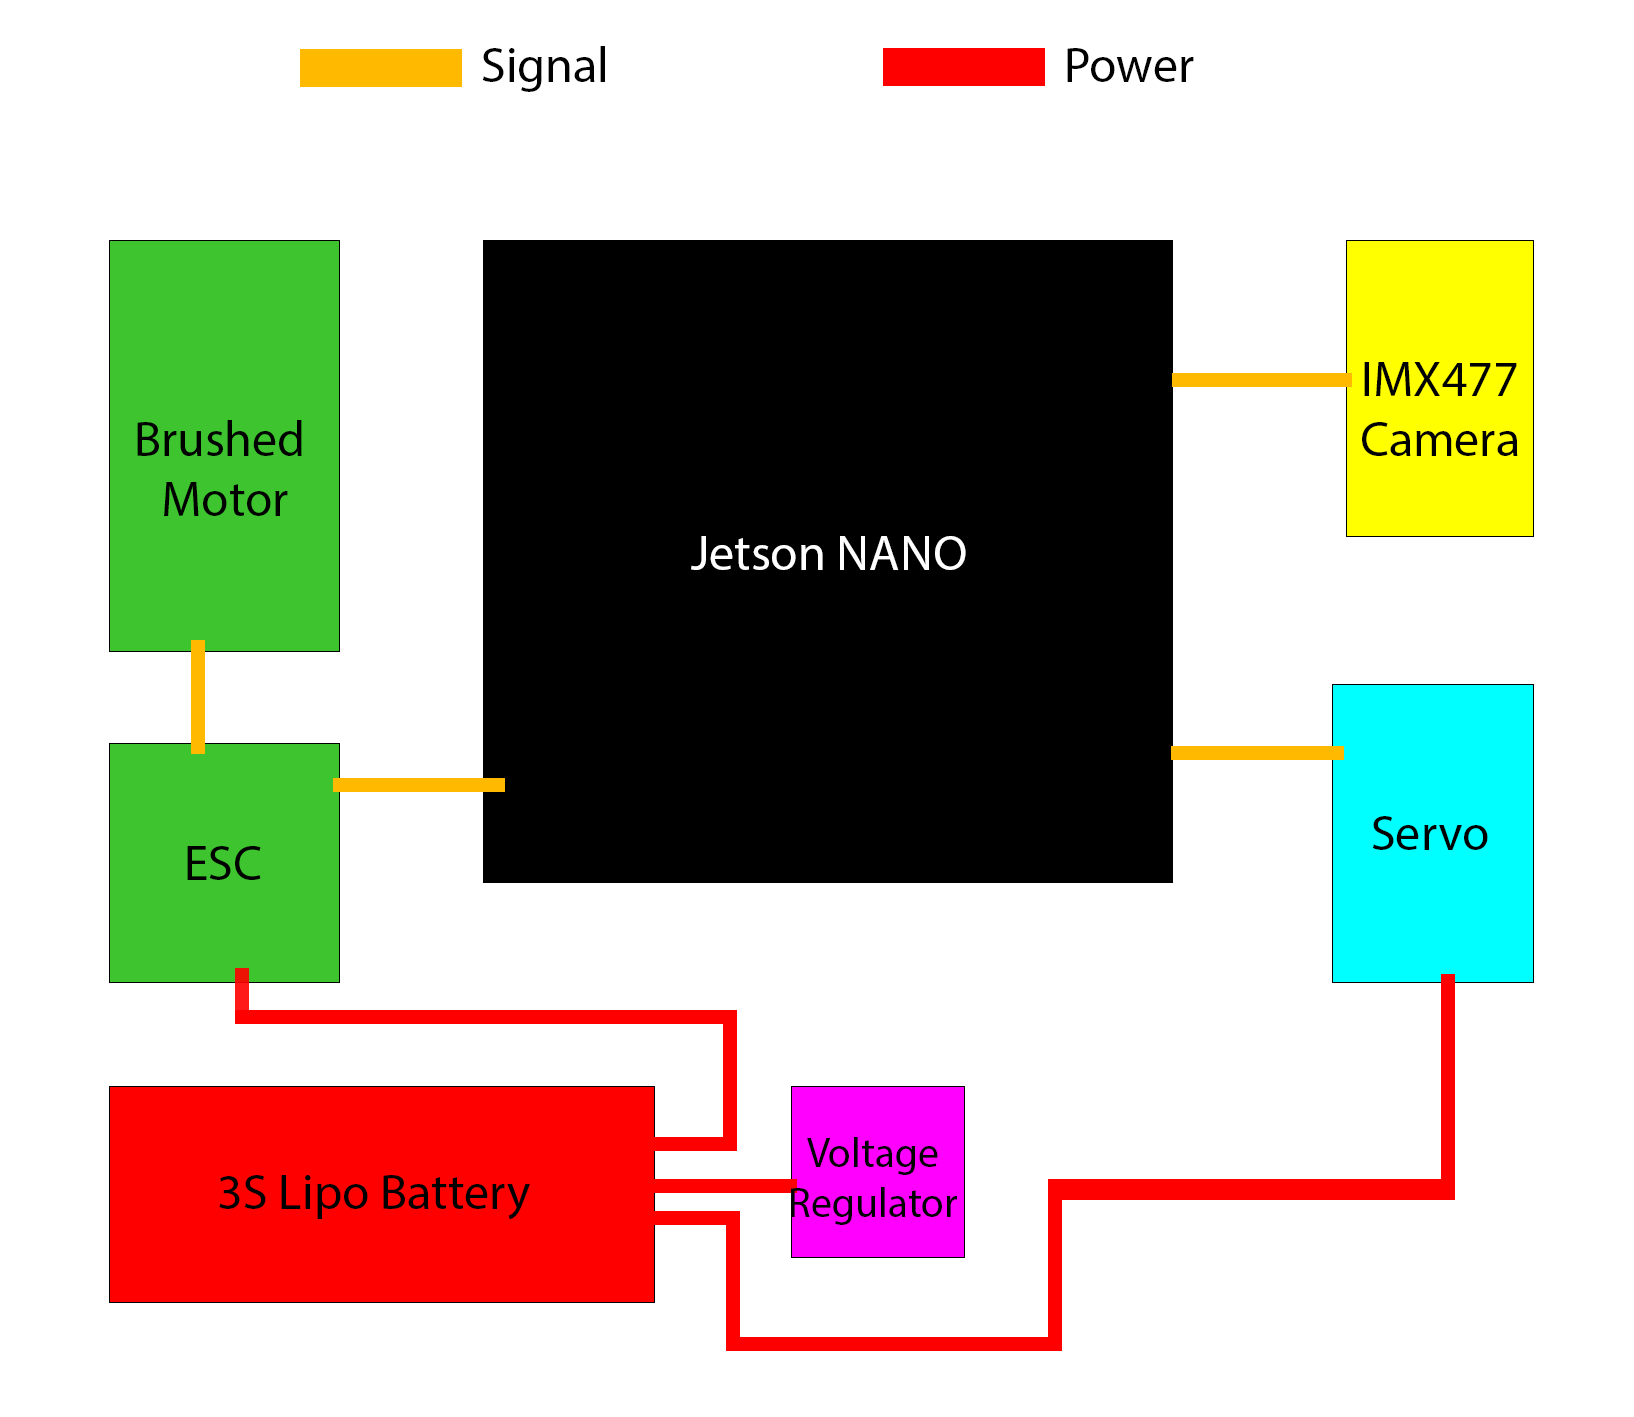
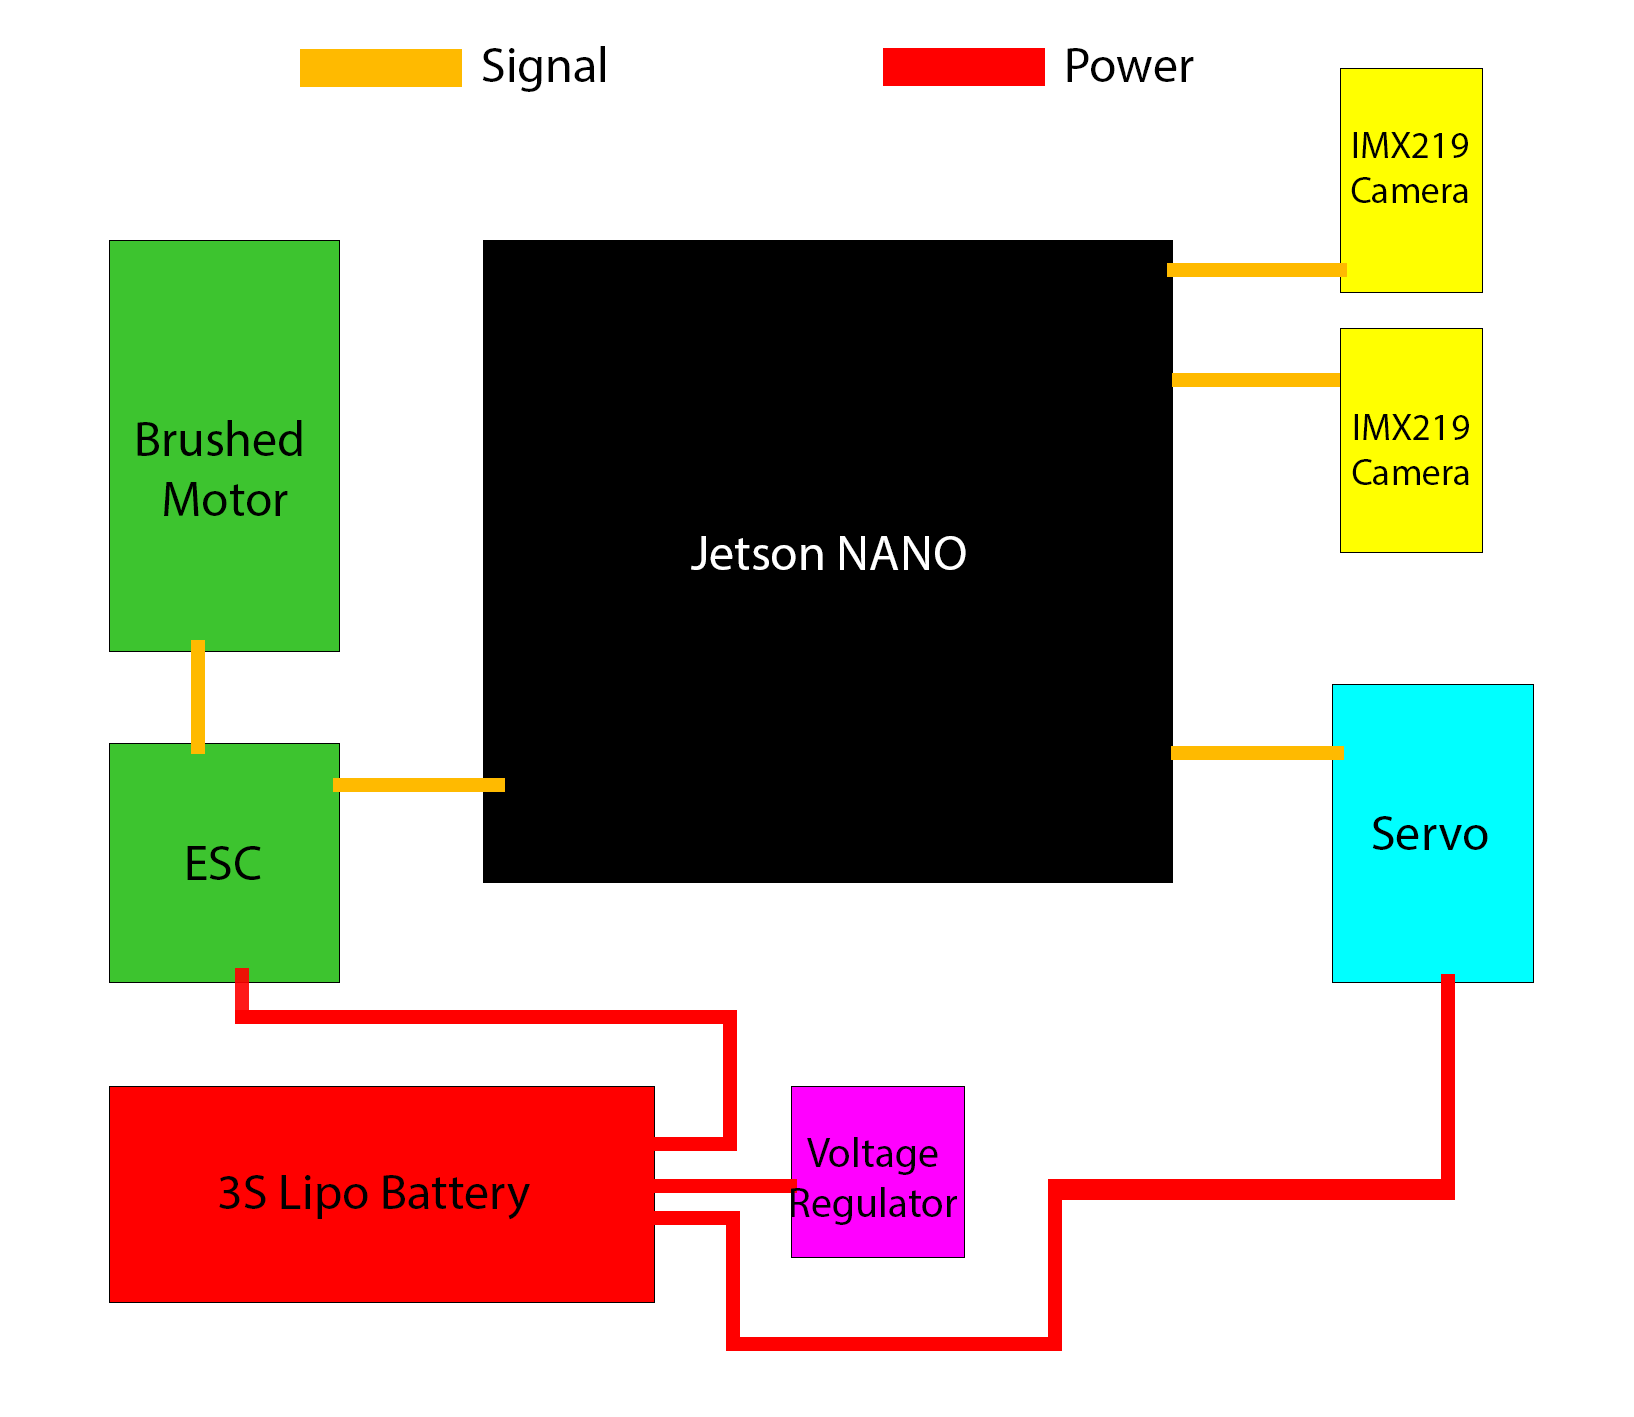
README files modified

Changed region(s): [[0.7179, 0.0311, 0.9364, 0.4037]]

diff --git a/Assembly.md b/Assembly.md
@@ -1,0 +1,153 @@
+<div align=center>
+
+![banner](./Extra%20Images/Banner.png)
+
+</div>
+
+***
+
+# Build Guide
+
+This is the build guide for WRO Future Engineers team GIGABIT SPACE 2023 solution - GigaBot. It is segmented into ***TBD*** main steps, with more detailed steps within. It assumes you have necessary tools and miscellaneous materials including but not limited to: M2.5, M3 driver bits; a 3D printer; a soldering iron; 20-24 gauge wire; and M2.5, M3 flat/countersunk screws.
+
+Below is a more-or-less detailed step-by-step guide to recreate GigaBot.
+
+***
+
+# Contents
+
+* [Parts List](#parts-list)
+* [Chassis Assembly](#chassis-assembly)
+* [Jetson Nano Setup](#jetson-nano-setup)
+    * [Board Setup, SSHFS, Static IP](#board-setup-sshfs--static-ip)
+    * [Enable GPIO & I2C](#enable-gpio-and-i2c)
+    * [Install Packages](#package-installation)
+    * [Remove GUI, Autologin, & Run-on-startup](#text-only-auto-login--run-on-startup)
+    * [Camera Calibration](#camera-calibration)
+
+***
+
+## Parts List
+
+
+* [ Jetson Nano 4GB Developer Kit](https://www.amazon.in/NVIDIA-945134500000000-Jetson-Nano/dp/B07PZHBDKT/ref=asc_df_B07PZHBDKT/?tag=googleshopdes-21&linkCode=df0&hvadid=397083170813&hvpos=&hvnetw=g&hvrand=17834902022474069661&hvpone=&hvptwo=&hvqmt=&hvdev=c&hvdvcmdl=&hvlocint=&hvlocphy=9181926&hvtargid=pla-736379876326&psc=1&ext_vrnc=hi)
+* 2x [Arducam Raspberry Pi Official Camera Module V2, with 8 Megapixel IMX219 Wide Angle 175 Degree Replacement](https://www.amazon.in/LEEKWI-Raspberry-Camera-Module-Megapixel/dp/B0B5WDPLXW/ref=sr_1_1?keywords=rpi+cam+v2&qid=1695919486&sr=8-1)
+* [Intel AX201 WiFi 6 BT 5.1 M.2 2230 with 10in RP-SMA Antenna](https://www.amazon.in/RCC-AX201NGW-Module-Bluetooth-Network/dp/B08131CXHZ) (not required but helpful)
+* [Original HobbyWing QuicRun 1060 60A Brushed Electronic Speed Controller](https://robu.in/product/original-hobbywing-quicrun-1625-60a-brushed-electronic-speed-%E2%80%8B%E2%80%8Bcontroller/?gclid=CjwKCAjwyNSoBhA9EiwA5aYlb_xb1pOc5OmoE8hFzLpjYF8EszvWhPInhuI8OJLzJ9mVmAkoGM8_-RoChv8QAvD_BwE)
+* [HobbyWing Brushed 55t Motor (55T)](https://www.flipkart.com/lyla-540-35t-brushed-motor-wp-1060-rtr-60a-esc-rc4wd-d90-1-10-rc-car-electronic-components-hobby-kit/p/itmf99bf8fae0f9b?pid=EHKGNX3SUQMFVPTM&lid=LSTEHKGNX3SUQMFVPTMEFCTUI&marketplace=FLIPKART&cmpid=content_electronic-hobby-kit_8965229628_gmc)
+* [MG996R Servo](https://robu.in/product/towerpro-mg996r-digital-high-torque-servo-motor/?gclid=CjwKCAjwyNSoBhA9EiwA5aYlb6geMjc8tdLp4JpjM6ChuxiDMqeowtN2mbboQdNtqbLp7cWhDHQzNhoCCxkQAvD_BwE)
+* A LiPo balance charger with XT-60 connector, rated for 3S
+* [Bonka Power 11.1v 2200mah Lipo battery](https://www.electronicscomp.com/bonka-11.1v-2200mah-35c-3s-lipo-battery?gclid=CjwKCAjwyNSoBhA9EiwA5aYlb5L4m1NkhoOKjTOF6tmf10qY1autVxF3b2DhmZAnl89ZcQIIB-Hb8BoComQQAvD_BwE)
+* 2x [DC-DC 5A Adjustable Buck Converter](https://robu.in/product/xl4005-dc-dc-5-32v-adjustable-step-down-5a-buck-power-supply-module/?gclid=CjwKCAjwyNSoBhA9EiwA5aYlb9LUmcIdBRj49ZHu5DseS0lXCwSZFyTztnzszvZfipi4UHHy7j7nuRoCjCoQAvD_BwE)
+* [Male 5.5mm DC Barrel Connectors]
+* [Male and Female XT60 Connectors](https://robu.in/product/xt60h-male-female-connector-pair-with-housing/?gclid=CjwKCAjwyNSoBhA9EiwA5aYlb36spsORR6mY5bdOZ919OJso-3ojDvyDCfMJYm5zNabIWrGiD5DNmhoCXY4QAvD_BwE)
+* [Normally Closed/Momentary On Push Button](https://robu.in/product/red-ds-316-10mm-lock-free-momentary-self-reset-small-push-button-switch/?gclid=CjwKCAjwyNSoBhA9EiwA5aYlbx7_yejxZOzbHwGbsDoJ8aB4PY14HtEr1IvFmg69gaSoR0Pq4DH1ShoCoPAQAvD_BwE) (size must match)
+* 20-24 gauge wire
+* M3 nylon screws (6mm)
+* M3 nylon standoffs (6mm works best)
+* M3 nylon nuts
+* M3 nuts
+* Countersunk, cap head M3 screws (6mm and 8mm work best)
+
+
+You will need (at least) the following tools:
+* 3D printer or access to 3D printing service
+* Hex Allen drivers (key or bits)
+* Phillips head drivers
+* Rotary tool with grinding bit (depending on which version of motor)
+* Crimper tool
+* Soldering iron
+
+*There may be items not listed that are used in the build guide, we apologize if that happens.*
+
+***
+
+## Chassis Assembly
+
+Sorry! We couldn't get to the assembly instructions in time! Print out the parts located in `/CAD Files/files`. in their given orientation (they have been oriented for the best print results) Most of the assembly should be fairly simple, and follow the pinout sheet linked below and connect to their corresponding pins on the other boards. Some holes may need to be drilled out to make screws fit.
+
+
+[Jetson Nano pinout sheet](./Others/GPIO_PINOUT.xlsx)
+
+*Note: For I2C connectors, Yellow should be SCL and blue should be SDA; there is no set standard.*
+
+
+For soldering, we recommend soldering the regulators to their own connectors **in parallel**, and using that as a pass-through to the ESC. The female connectors should be used on the ESC inputs and regulator input, and the male connector on the pass through end of the regulator wires. See the diagram below.
+
+Follow the quick start guide for the ESC to solder the motor connections. Brief summary: solder A, B, and C connectors to the motor (or supplied connectors). Ensure the sensor wire is secure before mounting motor and ESC.
+
+**WARNING:** DO NOT CONNECT THE ESC 3-PIN DIRECTLY TO THE SERVO DRIVER! IT WILL BACKDRIVE THE REGULATOR AND BREAK IT! ONLY CONNECT THE PWM PIN (white)!
+
+***
+
+## Jetson Nano Setup
+
+### Board Setup, SSHFS, & Static IP
+
+Visit [Yahboom](http://www.yahboom.net/)'s [setup and tutorial repository](http://www.yahboom.net/study/jetson-nano) to begin setting up the [Jetson Nano 4GB](https://category.yahboom.net/collections/jetson/products/jetson-nano-sub). Follow steps 1.1-1.7 in "Development setup > SUB Version".
+
+-> http://www.yahboom.net/study/jetson-nano
+
+After setting up the board, follow step 2.1 in section "Basic Settings" to log into your Jetson Nano. Keep PuTTY open, as it will be used for the rest of the setup process. Also keep the IP. For remote file transfer, install sshfs (linux only), or use [sshfs-win](https://github.com/winfsp/sshfs-win) from WinFsp. Follow instructions to mount the Jetson Nano to a network drive. Now upload all contents of the `/Program/` folder into a new folder on the Jetson Nano. Remember the directory of the folder, this will be used later.
+
+*This method should be used to upload programs.*
+
+Make sure a static IP is set to the board to make SSH and file transfer easier. Go to your router settings and [assign a DHCP reservation (PCmag)](https://www.pcmag.com/how-to/how-to-set-up-a-static-ip-address) (or a straight static IP) to your Jetson Nano. Save this IP in your PuTTY settings and SSHFS mounting.
+
+### Enable GPIO and I2C
+
+Next, setting up the board for the application. First, enable GPIO and I2C. Create a new user group, and add your user to it (this is the user running the commands).
+
+```
+sudo groupadd -f -r gpio
+sudo usermod -a -G gpio your_user_name
+```
+
+Copy `99-gpio.rules` from `/misc/` in the project folder to `/etc/udev/rules.d/` on the Jetson Nano. Then enable the rule.
+
+```
+sudo udevadm control --reload-rules && sudo udevadm trigger
+```
+
+Now enable PWM. Run the options file for jetson-GPIO.
+
+```
+sudo /opt/nvidia/jetson-io/jetson-io.py
+```
+
+Go down to "Configure 40-pin expansion header" and enter that submenu. Find `pwm0` and `pwm`, and enable them by selecting them and pressing "Enter". Now exit the tool. GPIO and PWM have been enabled.
+
+You may need to enable permissions for I2C
+
+```
+sudo usermod -a -G i2c your_user_name
+```
+
+### Package Installation
+
+Some packages will need to be installed. [Jetson-GPIO](https://github.com/NVIDIA/jetson-gpio), socket.io-client, [adafruit-servokit](https://github.com/adafruit/Adafruit_CircuitPython_ServoKit), and [adafruit-mpu6050](https://github.com/adafruit/Adafruit_MPU6050) must be installed (Jetson-GPIO may be pre-installed on some versions).
+
+Use the following pip commands:
+
+```
+pip3 install adafruit-circuitpython-servokit
+pip3 install adafruit-mpu6050
+pip3 install "python-socketio[client]"
+```
+
+### Camera Calibration
+
+You may encounter pink fringing on the cameras. If that happens, take the following steps to fix it:
+
+Copy `camera_overrides.isp` from `/dist/` in the project folder to `/var/nvidia/nvcam/settings/` on the Jetson Nano.
+
+Give the overrides permissions with the next two:
+
+```
+sudo chmod 664 /var/nvidia/nvcam/settings/camera_overrides.isp
+sudo chown root:root /var /nvidia/nvcam/settings/camera_overrides.isp
+```
+
+Next, calibrate the cameras. If you skip this step, the distortion correction may have error and the program may not function as intended.
+
+First, you need to run manualdrive and take pictures of a chessboard. Take roughly 10 pictures. Place these pictures in `dist/calibration`, and then run the first cell of `calibrate.ipynb`. The program should print out DIM, K, and D. If there is an error, make sure all the pictures have the full size of the chessboard. Paste these values of DIM, K, and D into the second cell where it says `# Paste matrices here`. Run the second cell to ensure the distortion matrices work. Now you can paste K and D into `converter.py`, at line 25.

diff --git a/README.md b/README.md
@@ -1,6 +1,6 @@
 <div align=center>
 
-![banner](./img/banner.png)
+![banner](./Extra%20Images/banner.png)
 
 </div>
 
@@ -42,14 +42,14 @@ Shortened assembly instructions:
 
 Here is a simple schematic for how the electronics are wired:
 
-![Wiring schematic](./img/docs/wiring-schematic.png)
+![Wiring schematic](./Schematics/Schematic.png)
 
 ## Photos
 |                                |                                  |
 | ------------------------------ | -------------------------------- |
-| ![front](./img/docs/front.jpg) | ![back](./img/docs/back.jpg)     |
-| ![left](./img/docs/left.jpg)   | ![right](./img/docs/right.jpg)   |
-| ![top](./img/docs/top.jpg)     | ![bottom](./img/docs/bottom.jpg) |
+| ![front](./Vehicle%20Photos/front.jpg) | ![back](./Vehicle%20Photos/back.jpg)     |
+| ![left](./Vehicle%20Photos/left.jpg)   | ![right](./Vehicle%20Photos/right.jpg)   |
+| ![top](./Vehicle%20Photos/top.jpg)     | ![bottom](./Vehicle%20Photos/bottom.jpg) |
 
 ***
 
